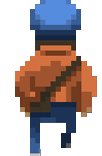
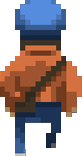
Fix/fix graphics (#57)
* Centered buttons for all screen sizes

* Did some scaling

* Made graphics work on more screen sizes

* Added stop sign

diff --git a/client/core/src/com/mygdx/dragmania/views/GameView.java b/client/core/src/com/mygdx/dragmania/views/GameView.java
@@ -4,6 +4,7 @@ import com.badlogic.gdx.Gdx;
 import com.badlogic.gdx.graphics.Color;
 import com.badlogic.gdx.graphics.Texture;
 import com.badlogic.gdx.graphics.g2d.BitmapFont;
+import com.badlogic.gdx.graphics.g2d.GlyphLayout;
 import com.badlogic.gdx.graphics.g2d.SpriteBatch;
 import com.badlogic.gdx.graphics.g2d.freetype.FreeTypeFontGenerator;
 import com.badlogic.gdx.graphics.glutils.ShapeRenderer;
@@ -18,6 +19,7 @@ public class GameView extends View{
     private float screenHeight;
     private Texture policeMan;
     private GameModel gameModel;
+    private Texture stopSign;
 
     private ArrayList<Integer> crossing;
     private ArrayList<Integer> policeturn;
@@ -34,9 +36,19 @@ public class GameView extends View{
 
     private BackArrow backArrow;
 
+    private float scaleConstant;
+
+    private int standardHeight = 2088;
+    private int standardWidth = 1080;
+
+    private static GlyphLayout glyphLayout1 = new GlyphLayout();
+    private static GlyphLayout glyphLayout2 = new GlyphLayout();
+    private static GlyphLayout glyphLayout3 = new GlyphLayout();
+    private static GlyphLayout glyphLayout4 = new GlyphLayout();
+
     protected GameView(ViewManager viewManager) {
         super(viewManager);
-        car = new Texture("car_red2.png");
+        stopSign = new Texture("stop.png");
         screenWidth = Gdx.graphics.getWidth();
         screenHeight = Gdx.graphics.getHeight();
 
@@ -46,12 +58,12 @@ public class GameView extends View{
         policeturn = new ArrayList<>();
         policeturn.add(200);
         policeturn.add(400);
-        policeturn.add(700);
+        //policeturn.add(700);
         policefake = new ArrayList<>();
-        policefake.add(50);
-        policefake.add(250);
+        //policefake.add(50);
+        //policefake.add(250);
 
-        gameModel = new GameModel("player", crossing, policeturn, policefake, 3000);
+        gameModel = new GameModel("player", crossing, policeturn, policefake, 1000);
 
         // Generating font
         FreeTypeFontGenerator generator = new FreeTypeFontGenerator(Gdx.files.internal("GovtAgentBB.ttf"));
@@ -73,6 +85,12 @@ public class GameView extends View{
         // Converting screen size to meters
         finishLineOffset = 29;
         carPosition = 0;
+
+        // Determine to scale by width or height
+        scaleConstant = screenWidth/standardWidth;
+        if(Math.abs(1-screenHeight/standardHeight) > Math.abs(1-screenWidth/standardWidth)) {
+            scaleConstant = screenHeight/standardHeight;
+        }
     }
 
 
@@ -91,10 +109,11 @@ public class GameView extends View{
         carPosition = (int)gameModel.getCar().getPosition().y/ROUNDING_CORRECTION;
 
         // Set finish line position if the player has come far enough
-        if(carPosition >= gameModel.getGameMap().getMapLength()-finishLineOffset && finishLineYPos == -400) {
-            finishLineYPos = 1900;
-        }
+        // if(car.getPosition().y >= gameMap.getMapLength()-screenHeight)
 
+        if(carPosition >= gameModel.getGameMap().getMapLength()-screenHeight/76 && finishLineYPos==-400) {
+            finishLineYPos = (int) (screenHeight*0.9);
+        }
         // Finish game if player crosses the finishline
         if(carPosition > gameModel.getGameMap().getMapLength()) {
             viewManager.push(new GameFinishedView(viewManager));
@@ -114,7 +133,7 @@ public class GameView extends View{
         renderBackground(sr);
         moveLines();
         renderMidLines(sr);
-        drawFinishLine(sr, finishLineYPos);
+        drawFinishLine(sr);
         renderTopSector(sr);
         sr.end();
         SpriteBatch sb = new SpriteBatch();
@@ -155,17 +174,22 @@ public class GameView extends View{
 
     }
 
-    public void drawFinishLine(ShapeRenderer sr, int yPos) {
-        if(carPosition >= gameModel.getGameMap().getMapLength()-finishLineOffset) {
+    public void drawFinishLine(ShapeRenderer sr) {
+        if(finishLineYPos > -400) {
             sr.setColor(Color.WHITE);
-            sr.rect(0, yPos, screenWidth, 50);
+            sr.rect(0, finishLineYPos, screenWidth, 50);
         }
     }
 
     // Only move finish line if player has come far enough
     public void moveFinishLine(int offset) {
         if(finishLineYPos > -400) {
-            finishLineYPos -= offset;
+            if (scaleConstant > 0.99 && scaleConstant < 1.01) {
+                finishLineYPos -= offset;
+            }
+            else {
+                finishLineYPos -= (offset*(scaleConstant)*0.9);
+            }
         }
 
 
@@ -173,7 +197,7 @@ public class GameView extends View{
 
     public void renderTopSector(ShapeRenderer sr) {
         sr.setColor(Color.valueOf("1c1c1c"));
-        sr.rect(0, Gdx.graphics.getHeight()-400, Gdx.graphics.getWidth(), 400);
+        sr.rect(0, (float) (screenHeight*0.8), Gdx.graphics.getWidth(), (float) (screenHeight*0.8));
     }
 
     public void moveLines() {
@@ -193,16 +217,24 @@ public class GameView extends View{
     }
 
     public void drawTextures(SpriteBatch sb) {
-        sb.draw(car, Gdx.graphics.getWidth()/2-car.getWidth()/6, 225, car.getWidth()/3, car.getHeight()/3);
+        sb.draw(gameModel.getCar().getTexture(), (float) (Gdx.graphics.getWidth()/2-gameModel.getCar().getTexture().getWidth()/(5*scaleConstant)), 225, (int)(gameModel.getCar().getTexture().getWidth()/(2.5*scaleConstant)), (int)(gameModel.getCar().getTexture().getHeight()/(2.5*scaleConstant)));
         Texture policeTexture = gameModel.getGameMap().getPoliceman().getAnimation();
-        sb.draw(policeTexture, screenWidth/2-policeTexture.getWidth(), screenHeight-400, policeTexture.getWidth()*2, policeTexture.getHeight()*2);
+        sb.draw(policeTexture, screenWidth/2-(policeTexture.getWidth()*scaleConstant), (float) (screenHeight*0.8), policeTexture.getWidth()*scaleConstant*2, policeTexture.getHeight()*scaleConstant*2);
         sb.draw(backArrow.getBackArrow(), backArrow.getPosition().x, backArrow.getPosition().y, backArrow.getWidth()/3, backArrow.getHeight()/3);
+        if (!gameModel.getCar().getAllowedToDrive()) {
+            sb.draw(stopSign, (float) (screenWidth/2-(stopSign.getWidth()/(2*1.5))), (float) (screenHeight*0.6), (float) (stopSign.getWidth()/1.5), (float) (stopSign.getHeight()/1.5));
+        }
     }
 
     public void drawFonts(SpriteBatch sb) {
-        font.draw(sb, "Your score: ", 100, 1975);
-        font.draw(sb, Integer.toString(carPosition), 200, 1875);
-        font.draw(sb, "Rivals score: ", 700, 1975);
-        font.draw(sb, Integer.toString(gameModel.getOpponentScore()), 825, 1875);
+        glyphLayout1.setText(font, "Your score");
+        font.draw(sb, glyphLayout1, (float) (screenWidth*0.1), (float) (screenHeight*0.95));
+        glyphLayout2.setText(font, Integer.toString(carPosition));
+        font.draw(sb, glyphLayout2, (float) (screenWidth*0.1) + (glyphLayout1.width/2)-(glyphLayout2.width/2), (float) (screenHeight*0.9));
+
+        glyphLayout3.setText(font, "Rival's score:");
+        font.draw(sb, glyphLayout3, (float) (screenWidth*0.65), (float) (screenHeight*0.95));
+        glyphLayout4.setText(font, Integer.toString(gameModel.getOpponentScore()));
+        font.draw(sb, glyphLayout4, (float) (screenWidth*0.65) + (glyphLayout3.width/2) - (glyphLayout4.width/2), (float) (screenHeight*0.9));
     }
 }

diff --git a/client/core/src/com/mygdx/dragmania/views/CreateGameView.java b/client/core/src/com/mygdx/dragmania/views/CreateGameView.java
@@ -3,6 +3,7 @@ package com.mygdx.dragmania.views;
 import com.badlogic.gdx.Gdx;
 import com.badlogic.gdx.graphics.Texture;
 import com.badlogic.gdx.graphics.g2d.BitmapFont;
+import com.badlogic.gdx.graphics.g2d.GlyphLayout;
 import com.badlogic.gdx.graphics.g2d.SpriteBatch;
 import com.badlogic.gdx.graphics.g2d.freetype.FreeTypeFontGenerator;
 import com.mygdx.dragmania.views.buttons.GetPinButton;
@@ -12,10 +13,19 @@ public class CreateGameView extends View {
     private GetPinButton getPinButton;
     private Texture background;
     private BitmapFont font;
+    private BitmapFont font2;
     private String pin;
+
+    private float screenWidth;
+    private float screenHeight;
+
+    private static GlyphLayout glyphLayout1 = new GlyphLayout();
+    private static GlyphLayout glyphLayout2 = new GlyphLayout();
 
     public CreateGameView(ViewManager viewManager) {
         super(viewManager);
+        screenWidth = Gdx.graphics.getWidth();
+        screenHeight = Gdx.graphics.getHeight();
         backArrow = new BackArrow(0,0);
         getPinButton = new GetPinButton(200, 400);
         background = new Texture("background_plain.png");
@@ -24,6 +34,8 @@ public class CreateGameView extends View {
         FreeTypeFontGenerator.FreeTypeFontParameter parameter = new FreeTypeFontGenerator.FreeTypeFontParameter();
         parameter.size = 200;
         font = generator.generateFont(parameter);
+        parameter.size = 50;
+        font2 = generator.generateFont(parameter);
         generator.dispose();
         pin = "";
     }
@@ -50,9 +62,12 @@ public class CreateGameView extends View {
         sb.begin();
         sb.draw(background, 0, 0, Gdx.graphics.getWidth(), Gdx.graphics.getHeight());
         sb.draw(backArrow.getBackArrow(), backArrow.getPosition().x, backArrow.getPosition().y, backArrow.getWidth()/3, backArrow.getHeight()/3);
-        sb.draw(getPinButton.getButton(), getPinButton.getPosition().x, getPinButton.getPosition().y, getPinButton.getWidth(), getPinButton.getHeight());
+        sb.draw(getPinButton.getButton(), screenWidth/2-(getPinButton.getWidth()/2), getPinButton.getPosition().y, getPinButton.getWidth(), getPinButton.getHeight());
         if(pin != "") {
-            font.draw(sb, pin, 300, 1400);
+            glyphLayout1.setText(font, pin);
+            font.draw(sb, glyphLayout1, screenWidth/2-(glyphLayout1.width/2), (float) (screenHeight*0.7));
+            glyphLayout2.setText(font2, "Send this pin to your buddy and wait here");
+            font2.draw(sb, glyphLayout2, screenWidth/2-(glyphLayout2.width/2), (float) (screenHeight*0.6));
         }
         sb.end();
     }

diff --git a/client/core/src/com/mygdx/dragmania/views/GameFinishedView.java b/client/core/src/com/mygdx/dragmania/views/GameFinishedView.java
@@ -3,6 +3,7 @@ package com.mygdx.dragmania.views;
 import com.badlogic.gdx.Gdx;
 import com.badlogic.gdx.graphics.Texture;
 import com.badlogic.gdx.graphics.g2d.BitmapFont;
+import com.badlogic.gdx.graphics.g2d.GlyphLayout;
 import com.badlogic.gdx.graphics.g2d.SpriteBatch;
 import com.badlogic.gdx.graphics.g2d.freetype.FreeTypeFontGenerator;
 import com.mygdx.dragmania.views.buttons.MainMenuButton;
@@ -14,6 +15,11 @@ public class GameFinishedView extends View{
     private BitmapFont font;
     private RematchButton rematchButton;
     private MainMenuButton mainMenuButton;
+    private float screenWidth;
+    private float screenHeight;
+
+    private static GlyphLayout glyphLayout = new GlyphLayout();
+    private String gameStatus;
 
     protected GameFinishedView(ViewManager viewManager) {
         super(viewManager);
@@ -26,6 +32,9 @@ public class GameFinishedView extends View{
         generator.dispose();
         rematchButton = new RematchButton(200, 500);
         mainMenuButton = new MainMenuButton(200, 800);
+        screenWidth = Gdx.graphics.getWidth();
+        screenHeight = Gdx.graphics.getHeight();
+        gameStatus = "Game Won!";
     }
 
     @Override
@@ -49,9 +58,10 @@ public class GameFinishedView extends View{
         SpriteBatch sb = new SpriteBatch();
         sb.begin();
         sb.draw(background, 0, 0, Gdx.graphics.getWidth(), Gdx.graphics.getHeight());
-        font.draw(sb, "Game Won!", 250, 1750);
-        sb.draw(rematchButton.getButton(), rematchButton.getPosition().x, rematchButton.getPosition().y, rematchButton.getWidth(), rematchButton.getHeight());
-        sb.draw(mainMenuButton.getButton(), mainMenuButton.getPosition().x, mainMenuButton.getPosition().y, mainMenuButton.getWidth(), mainMenuButton.getHeight());
+        glyphLayout.setText(font, gameStatus);
+        font.draw(sb, glyphLayout, screenWidth/2-(glyphLayout.width/2), (float) (screenHeight*0.8));
+        sb.draw(rematchButton.getButton(), screenWidth/2-(rematchButton.getWidth()/2), rematchButton.getPosition().y, rematchButton.getWidth(), rematchButton.getHeight());
+        sb.draw(mainMenuButton.getButton(), screenWidth/2-(rematchButton.getWidth()/2), mainMenuButton.getPosition().y, mainMenuButton.getWidth(), mainMenuButton.getHeight());
         sb.end();
     }
 

diff --git a/client/core/src/com/mygdx/dragmania/views/MainMenuView.java b/client/core/src/com/mygdx/dragmania/views/MainMenuView.java
@@ -14,8 +14,13 @@ public class MainMenuView extends View {
     private CreateGameButton createGameButton;
     private Texture background;
 
+    private float screenWidth;
+    private float screenHeight;
+
     public MainMenuView(ViewManager viewManager) {
         super(viewManager);
+        screenWidth = Gdx.graphics.getWidth();
+        screenHeight = Gdx.graphics.getHeight();
         helpButton = new HelpButton(200, 400);
         joinGameButton = new JoinGameButton(200, 700);
         createGameButton = new CreateGameButton(200, 1000);
@@ -44,9 +49,9 @@ public class MainMenuView extends View {
         SpriteBatch sb = new SpriteBatch();
         sb.begin();
         sb.draw(background, 0, 0, Gdx.graphics.getWidth(), Gdx.graphics.getHeight());
-        sb.draw(helpButton.getButton(), helpButton.getPosition().x, helpButton.getPosition().y, helpButton.getWidth(), helpButton.getHeight());
-        sb.draw(joinGameButton.getButton(), joinGameButton.getPosition().x, joinGameButton.getPosition().y, joinGameButton.getWidth(), joinGameButton.getHeight());
-        sb.draw(createGameButton.getButton(), createGameButton.getPosition().x, createGameButton.getPosition().y, createGameButton.getWidth(), createGameButton.getHeight());
+        sb.draw(helpButton.getButton(), screenWidth/2-(helpButton.getWidth()/2), helpButton.getPosition().y, helpButton.getWidth(), helpButton.getHeight());
+        sb.draw(joinGameButton.getButton(), screenWidth/2-(joinGameButton.getWidth()/2), joinGameButton.getPosition().y, joinGameButton.getWidth(), joinGameButton.getHeight());
+        sb.draw(createGameButton.getButton(), screenWidth/2-(helpButton.getWidth()/2), createGameButton.getPosition().y, createGameButton.getWidth(), createGameButton.getHeight());
         sb.end();
 
     }

diff --git a/client/core/src/com/mygdx/dragmania/views/JoinGameView.java b/client/core/src/com/mygdx/dragmania/views/JoinGameView.java
@@ -13,6 +13,7 @@ public class JoinGameView extends View {
     private BackArrow backArrow;
     private StartGameButton startGameButton;
     private Texture background;
+    private float screenWidth;
 
     public JoinGameView(ViewManager viewManager) {
         super(viewManager);
@@ -21,6 +22,7 @@ public class JoinGameView extends View {
         background = new Texture("background_plain.png");
         PinInputListener listener = new PinInputListener();
         Gdx.input.getTextInput(listener, "Input game pin", "", "Pin:");
+        screenWidth = Gdx.graphics.getWidth();
     }
 
     @Override
@@ -45,7 +47,7 @@ public class JoinGameView extends View {
         sb.begin();
         sb.draw(background, 0, 0, Gdx.graphics.getWidth(), Gdx.graphics.getHeight());
         sb.draw(backArrow.getBackArrow(), backArrow.getPosition().x, backArrow.getPosition().y, backArrow.getWidth()/3, backArrow.getHeight()/3);
-        sb.draw(startGameButton.getButton(), startGameButton.getPosition().x, startGameButton.getPosition().y, startGameButton.getWidth(), startGameButton.getHeight());
+        sb.draw(startGameButton.getButton(), screenWidth/2-(startGameButton.getWidth()/2), startGameButton.getPosition().y, startGameButton.getWidth(), startGameButton.getHeight());
         sb.end();
     }
 

diff --git a/client/core/src/com/mygdx/dragmania/views/HelpView.java b/client/core/src/com/mygdx/dragmania/views/HelpView.java
@@ -14,6 +14,7 @@ public class HelpView extends View {
     private ArrayList<Texture> helpTextures;
     private NextButton nextButton;
     private int textureIndex;
+    private float screenWidth;
 
     public HelpView(ViewManager viewManager) {
         super(viewManager);
@@ -24,6 +25,7 @@ public class HelpView extends View {
         helpTextures.add(new Texture("help3.png"));
         nextButton = new NextButton(320, 20);
         textureIndex = 0;
+        screenWidth = Gdx.graphics.getWidth();
     }
 
 
@@ -49,7 +51,7 @@ public class HelpView extends View {
         sb.draw(helpTextures.get(textureIndex), 0, 0, Gdx.graphics.getWidth(), Gdx.graphics.getHeight());
         sb.draw(backArrow.getBackArrow(), backArrow.getPosition().x, backArrow.getPosition().y, backArrow.getWidth()/3, backArrow.getHeight()/3);
         if(textureIndex < 2) {
-            sb.draw(nextButton.getButton(), nextButton.getPosition().x, nextButton.getPosition().y);
+            sb.draw(nextButton.getButton(), screenWidth/2-(nextButton.getWidth()/2), nextButton.getPosition().y);
         }
         sb.end();
     }

diff --git a/client/core/src/com/mygdx/dragmania/models/CarFactory.java b/client/core/src/com/mygdx/dragmania/models/CarFactory.java
@@ -16,7 +16,7 @@ public class CarFactory {
     static {
         // Initialize TEXTURES
         Map<CarType, String> tmpTextures = new EnumMap<>(CarType.class);
-        tmpTextures.put(CarType.NORMAL, "textures/cars/car_red.png");
+        tmpTextures.put(CarType.NORMAL, "car_red2.png");
         tmpTextures.put(CarType.TRUCK, "textures/cars/car_blue.png");
         tmpTextures.put(CarType.MOTORCYCLE, "textures/cars/car_green.png");
         TEXTURES = Collections.unmodifiableMap(tmpTextures);

diff --git a/client/core/src/com/mygdx/dragmania/models/Car.java b/client/core/src/com/mygdx/dragmania/models/Car.java
@@ -57,6 +57,10 @@ public class Car extends Collidable {
     public void setMaxVelocity(int newMaxVelocity) {
         this.maxVelocity = newMaxVelocity;
     }
+
+    public boolean getAllowedToDrive() {
+        return allowedToDrive;
+    }
     
     // Allow or disallow a car to drive
     public void canDrive(boolean allowed) {
